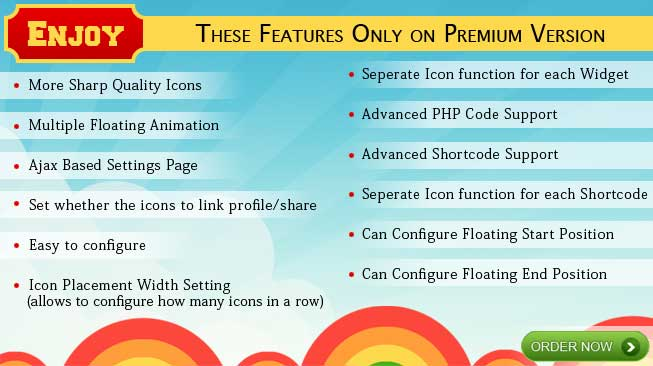
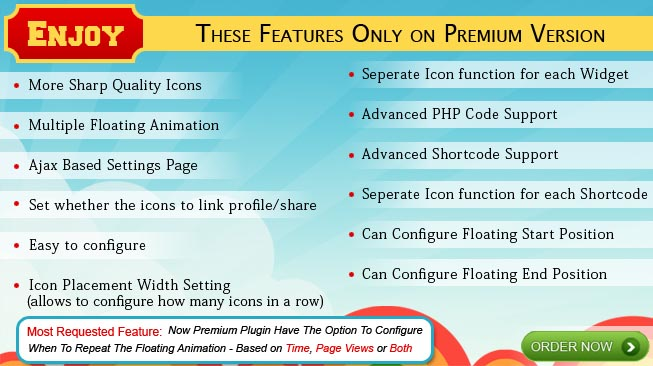
Version Update
git-svn-id: https://plugins.svn.wordpress.org/floating-social-media-icon/trunk@551958 b8457f37-d9ea-0310-8a92-e5e31aec5664

diff --git a/function.php b/function.php
@@ -573,7 +573,29 @@ if ($acx_si_twitter == "" && $acx_si_facebook == "" && $acx_si_youtube == "" && 
 } // Chking If Plugin Not Configured
 } // Chking $social_icon_array_count == $total_arrays
 
-
+// wp-admin Notices >> Plugin not configured
+function acx_si_pluign_promotion()
+{
+    echo '<div id="acx_td" class="error" style="background: none repeat scroll 0pt 0pt infobackground; border: 1px solid inactivecaption; padding: 5px;line-height:16px;">
+	<p>It looks like you have been enjoying using Floating Social Media Icon plugin from <a href="http://www.acurax.com?utm_source=plugin&utm_medium=thirtyday&utm_campaign=thirtyday" title="Acurax Web Designing Company" target="_blank">Acurax</a> for atleast 30 days.Would you consider upgrading to <a href="http://www.acurax.com/products/floating-social-media-icon-plugin-wordpress/?utm_source=plugin&utm_medium=thirtyday&utm_campaign=thirtyday" title="Premium Floating Social Media Icon" target="_blank">premium version</a> to enjoy more features and help support continued development of the plugin? - You can also support us by giving us a website design, redesign, social media project or by spreading the world about this plugin. Thank you for using the plugin</p>
+	<p>
+	<a href="http://wordpress.org/extend/plugins/floating-social-media-icon/" class="button" style="color:black;text-decoration:none;padding:5px;margin-right:4px;" target="_blank">Rate it 5★\'s on wordpress</a>
+	<a href="https://twitter.com/share?url=http://www.acurax.com/products/floating-social-media-icon-plugin-wordpress/&text=I Use Floating SocialMedia Icon from @acuraxdotcom on wordpress and you should too -" class="button" style="color:black;text-decoration:none;padding:5px;margin-right:4px;" target="_blank">Tell Your Followers</a>
+	<a href="http://clients.acurax.com/cart.php?gid=8&utm_source=plugin&utm_medium=thirtyday&utm_campaign=thirtyday" class="button" style="color:black;text-decoration:none;padding:5px;margin-right:4px;" target="_blank">Order Premium Version</a>
+	<a href="admin.php?page=Acurax-Social-Icons-Premium&td=hide" class="button" style="color:black;text-decoration:none;padding:5px;margin-right:4px;margin-left:20px;">Don\'t Show This Again</a>
+</p>
+		  
+		  </div>';
+}
+$acx_si_installed_date = get_option('acx_si_installed_date');
+if ($acx_si_installed_date=="") { $acx_si_installed_date = time();}
+if($acx_si_installed_date < ( time() - 2952000 ))
+{
+if (get_option('acx_si_td') != "hide")
+{
+add_action('admin_notices', 'acx_si_pluign_promotion',1);
+}
+}
 
 
 // Starting Widget Code
@@ -848,84 +870,107 @@ $ad_1 = '
 </tr>
 
 <tr>
-<td class="label">More Sharp Quality Icons</td>
+<td class="label" style="font-weight: bold; text-align: left; color: black; background: none repeat scroll 0pt 0pt YellowGreen;">More Sharp Quality Icons</td>
 <td class="feature_free"><div id="c_cross"></div></td>
 <td class="feature_paid" style="border-right:0px;"><div id="c_tick"></div> <!-- c_tick --></td>
 </tr>
 
 <tr>
-<td class="label">Multiple Floating Animation</td>
+<td class="label" style="font-weight: bold; text-align: left; color: black; background: none repeat scroll 0pt 0pt YellowGreen;">Multiple Floating Animation</td>
 <td class="feature_free"><div id="c_cross"></div></td>
 <td class="feature_paid" style="border-right:0px;"><div id="c_tick"></div> <!-- c_tick --></td>
 </tr>
 
 <tr>
-<td class="label">Ajax Based Settings Page</td>
+<td class="label" style="font-weight: bold; text-align: left; color: black; background: none repeat scroll 0pt 0pt YellowGreen;">Configure Animation Repeat Interval</td>
 <td class="feature_free"><div id="c_cross"></div></td>
 <td class="feature_paid" style="border-right:0px;"><div id="c_tick"></div> <!-- c_tick --></td>
 </tr>
 
 <tr>
-<td class="label">Set whether the icons to link profile/share</td>
+<td class="label" style="font-weight: bold; text-align: left; color: black; background: none repeat scroll 0pt 0pt YellowGreen;">Animation Repeat Interval Based On Time</td>
 <td class="feature_free"><div id="c_cross"></div></td>
 <td class="feature_paid" style="border-right:0px;"><div id="c_tick"></div> <!-- c_tick --></td>
 </tr>
 
 <tr>
-<td class="label">Easy to configure</td>
+<td class="label" style="font-weight: bold; text-align: left; color: black; background: none repeat scroll 0pt 0pt YellowGreen;">Animation Repeat Interval Based on Page Views</td>
 <td class="feature_free"><div id="c_cross"></div></td>
 <td class="feature_paid" style="border-right:0px;"><div id="c_tick"></div> <!-- c_tick --></td>
 </tr>
 
 <tr>
-<td class="label">Icon Placement Width Setting (allows to configure how many icons in 1 row)</td>
+<td class="label" style="font-weight: bold; text-align: left; color: black; background: none repeat scroll 0pt 0pt YellowGreen;">Animation Repeat Interval Based On Page Views and Time (both)</td>
 <td class="feature_free"><div id="c_cross"></div></td>
 <td class="feature_paid" style="border-right:0px;"><div id="c_tick"></div> <!-- c_tick --></td>
 </tr>
 
 <tr>
-<td class="label">Seperate Icon function for each Widget</td>
+<td class="label" style="font-weight: bold; text-align: left; color: black; background: none repeat scroll 0pt 0pt YellowGreen;">Ajax Based Settings Page</td>
 <td class="feature_free"><div id="c_cross"></div></td>
 <td class="feature_paid" style="border-right:0px;"><div id="c_tick"></div> <!-- c_tick --></td>
 </tr>
 
 <tr>
-<td class="label">Advanced PHP Code Support</td>
+<td class="label" style="font-weight: bold; text-align: left; color: black; background: none repeat scroll 0pt 0pt YellowGreen;">Set whether the icons to link profile/share</td>
 <td class="feature_free"><div id="c_cross"></div></td>
 <td class="feature_paid" style="border-right:0px;"><div id="c_tick"></div> <!-- c_tick --></td>
 </tr>
 
 <tr>
-<td class="label">Advanced Shortcode Support</td>
+<td class="label" style="font-weight: bold; text-align: left; color: black; background: none repeat scroll 0pt 0pt YellowGreen;">Easy to configure</td>
 <td class="feature_free"><div id="c_cross"></div></td>
 <td class="feature_paid" style="border-right:0px;"><div id="c_tick"></div> <!-- c_tick --></td>
 </tr>
 
 <tr>
-<td class="label">Seperate Icon function for each Shortcode</td>
+<td class="label" style="font-weight: bold; text-align: left; color: black; background: none repeat scroll 0pt 0pt YellowGreen;">Icon Placement Width Setting (allows to configure how many icons in 1 row)</td>
 <td class="feature_free"><div id="c_cross"></div></td>
 <td class="feature_paid" style="border-right:0px;"><div id="c_tick"></div> <!-- c_tick --></td>
 </tr>
 
 <tr>
-<td class="label">Can Configure Floating Start Position</td>
+<td class="label" style="font-weight: bold; text-align: left; color: black; background: none repeat scroll 0pt 0pt YellowGreen;">Seperate Icon function for each Widget</td>
 <td class="feature_free"><div id="c_cross"></div></td>
 <td class="feature_paid" style="border-right:0px;"><div id="c_tick"></div> <!-- c_tick --></td>
 </tr>
 
 <tr>
-<td class="label">Can Configure Floating End Position</td>
+<td class="label" style="font-weight: bold; text-align: left; color: black; background: none repeat scroll 0pt 0pt YellowGreen;">Advanced PHP Code Support</td>
 <td class="feature_free"><div id="c_cross"></div></td>
 <td class="feature_paid" style="border-right:0px;"><div id="c_tick"></div> <!-- c_tick --></td>
 </tr>
 
 <tr>
-<td class="label" style="border-right:0px;padding-right:0px;">Download free version of plugin at wordpress </td>
-<td class="feature_free" style="padding-left:0px;width: 161px;">plugin directory</td>
-<td class="feature_paid" style="border-right:0px;"><a href="http://clients.acurax.com/cart.php?gid=8&utm_source=plugin-settings&utm_medium=link&utm_campaign=plugin-settings" target="_blank"><img src="' . plugins_url("images/orange_buynow.png", __FILE__) . '" border="0"></a></div> <!-- c_tick --></td>
+<td class="label" style="font-weight: bold; text-align: left; color: black; background: none repeat scroll 0pt 0pt YellowGreen;">Advanced Shortcode Support</td>
+<td class="feature_free"><div id="c_cross"></div></td>
+<td class="feature_paid" style="border-right:0px;"><div id="c_tick"></div> <!-- c_tick --></td>
 </tr>
 
-</table><br><br></div>';
+<tr>
+<td class="label" style="font-weight: bold; text-align: left; color: black; background: none repeat scroll 0pt 0pt YellowGreen;">Seperate Icon function for each Shortcode</td>
+<td class="feature_free"><div id="c_cross"></div></td>
+<td class="feature_paid" style="border-right:0px;"><div id="c_tick"></div> <!-- c_tick --></td>
+</tr>
+
+<tr>
+<td class="label" style="font-weight: bold; text-align: left; color: black; background: none repeat scroll 0pt 0pt YellowGreen;">Can Configure Floating Start Position</td>
+<td class="feature_free"><div id="c_cross"></div></td>
+<td class="feature_paid" style="border-right:0px;"><div id="c_tick"></div> <!-- c_tick --></td>
+</tr>
+
+<tr>
+<td class="label" style="font-weight: bold; text-align: left; color: black; background: none repeat scroll 0pt 0pt YellowGreen;">Can Configure Floating End Position</td>
+<td class="feature_free"><div id="c_cross"></div></td>
+<td class="feature_paid" style="border-right:0px;"><div id="c_tick"></div> <!-- c_tick --></td>
+</tr>
+
+</table><br>
+<div id="ad_fsmi_2_button_order">
+<a href="http://clients.acurax.com/cart.php?gid=8&utm_source=plugin_settings&utm_medium=banner&utm_campaign=plugin_yellow_order" target="_blank"><div id="ad_fsmi_2_button_order_link"></div></a></div> <!-- ad_fsmi_2_button_order --> <br>
+<div id="ad_fsmi_2_button_payments">
+<a href="http://clients.acurax.com/cart.php?gid=8&utm_source=plugin_settings&utm_medium=banner&utm_campaign=plugin_payments_banner" target="_blank"><div id="ad_fsmi_2_button_payments_link"></div></a> </div>
+<br></div>';
 $ad_2='<div id="ad_fsmi_2"> <a href="http://clients.acurax.com/cart.php?gid=8&utm_source=plugin_settings&utm_medium=banner&utm_campaign=plugin_enjoy" target="_blank"><div id="ad_fsmi_2_button"></div></a> </div> <!-- ad_fsmi_2 --><br>
 <div id="ad_fsmi_2_button_order">
 <a href="http://clients.acurax.com/cart.php?gid=8&utm_source=plugin_settings&utm_medium=banner&utm_campaign=plugin_yellow_order" target="_blank"><div id="ad_fsmi_2_button_order_link"></div></a></div> <!-- ad_fsmi_2_button_order --> <br>

diff --git a/premium.php b/premium.php
@@ -1,3 +1,20 @@
+<?php
+if($_GET['td'] == 'hide') 
+{
+update_option('acx_si_td', "hide");
+?>
+<style type='text/css'>
+#acx_td
+{
+display:none;
+}
+</style>
+<div class="error" style="background: none repeat scroll 0pt 0pt infobackground; border: 1px solid inactivecaption; padding: 5px;line-height:16px;">
+Thanks again for using the plugin. we will never show the mesage again.
+</div>
+<?php
+}
+?>
 <div id="acx_help_page">
 <div style="width: 460px; margin-top: 10px; margin-right: auto; margin-left: auto;">
 <iframe width="440" height="245" src="http://www.youtube-nocookie.com/embed/6_bUJvpruMc?rel=0" frameborder="0" allowfullscreen></iframe>

diff --git a/acurax-social-icon.php b/acurax-social-icon.php
@@ -4,7 +4,7 @@ Plugin Name: Floating Social Media Icon
 Plugin URI: http://www.acurax.com/products/floating-social-media-icon-plugin-wordpress/
 Description: An easy to use plugin to show social media icons which floats on your browsers right bottom, which links to your social media profiles, You have option in plugin settings to configure social media profile urls and also can select icon style,order and size.
 Author: Acurax 
-Version: 1.1.2
+Version: 1.1.3
 Author URI: http://www.acurax.com 
 License: GPLv2 or later
 */

diff --git a/social-icon.php b/social-icon.php
@@ -46,7 +46,10 @@ if($_POST['acurax_social_icon_hidden'] == 'Y')
 }
 	else
 {	//Normal page display
-
+$acx_si_installed_date = get_option('acx_si_installed_date');
+if ($acx_si_installed_date=="") { $acx_si_installed_date = time();
+update_option('acx_si_installed_date', $acx_si_installed_date);
+}
 	$acx_si_theme = get_option('acx_si_theme');
 	$acx_si_twitter = get_option('acx_si_twitter');
 	$acx_si_facebook = get_option('acx_si_facebook');
